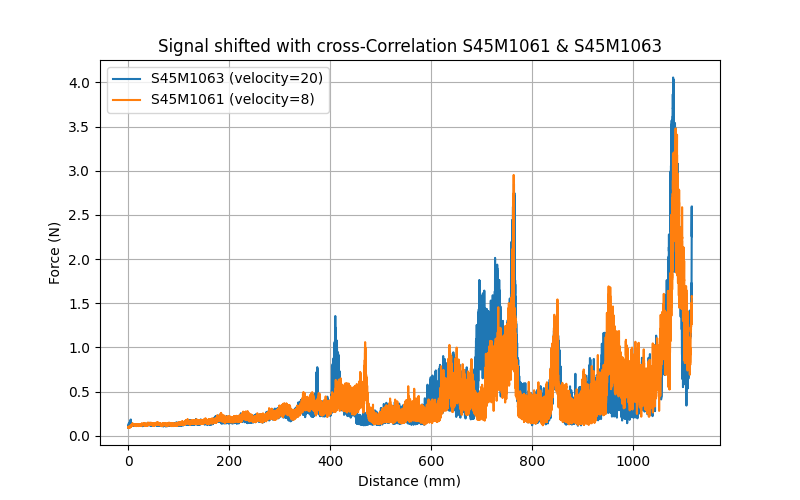
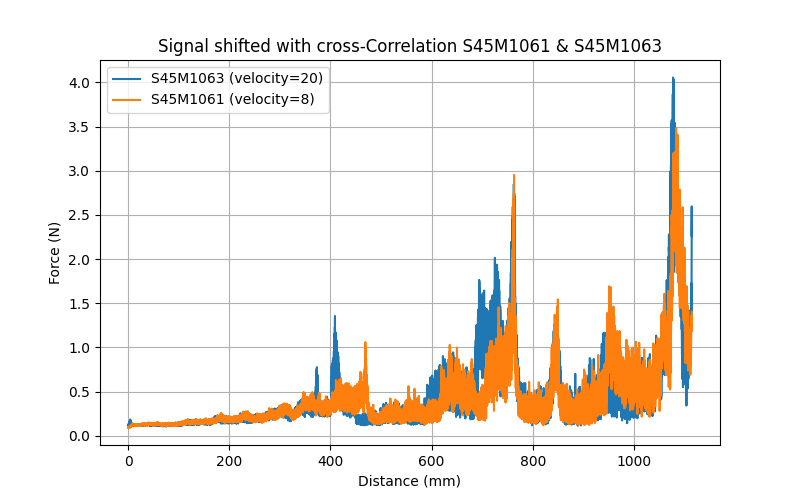
trying to get better alignment values back

diff --git a/code_SMP/similarity.py b/code_SMP/similarity.py
@@ -130,7 +130,7 @@ if __name__ == "__main__":
     smp_profiles = load_all_smp_profiles()
 
     # pairs of profiles saved as lists in code_SMP/pairs.py
-    for type in ["pairs", "first", "single", "double", "increasing", "decreasing"]:
+    for type in ["double"]:#["pairs", "first", "single", "double", "increasing", "decreasing"]:
 
         # build pairs for crosscorrelation 
         if type == "pairs":
@@ -154,15 +154,15 @@ if __name__ == "__main__":
             # Step 1: crosscorrelate pairs
             #check if crosscorr is already in cache 
             pair_key = tuple(sorted((name1, name2)))
-            if pair_key in cache:
-                lag = cache[pair_key]["lag"]
+            #if pair_key in cache:
+            #    lag = cache[pair_key]["lag"]
             # if not: crosscorrelate 
-            else:
-                offset_mm, _, lag = get_offset(df1, df2, name1, name2, plot=False)
-                # save offset in cache
-                cache[pair_key] = {"lag": lag}
-                with open(cache_path, "wb") as f:
-                    pickle.dump(cache, f)
+            #else:
+            offset_mm, _, lag = get_offset(df1, df2, name1, name2, plot=False)
+            # save offset in cache
+            cache[pair_key] = {"lag": lag}
+            with open(cache_path, "wb") as f:
+                pickle.dump(cache, f)
 
             # Step 2: Align profiles
             df1, df2 = align_profiles(df1, df2, name1, name2, lag)

diff --git a/code_SMP/offset.py b/code_SMP/offset.py
@@ -16,12 +16,12 @@ def get_offset(df1, df2, name1, name2, plot=True):
     df2 = df2.reset_index(drop=True)
 
     #Cut dfs to apply autocorrelation - only use for offset method!
-    start = 10000 # *0,004132 = 41,32mm // with surface trim I could also start with 0 
+    start = 0 #10000 *0,004132 = 41,32mm // with surface trim I could also start with 0 
     end = 220000 #909,94mm // only works for day 1 , profiles of day 2 are shorter
 
     #make shorter Array for day 2 (so ground peaks get cut off)
     if len(df2) < 250000: 
-        start = 10000
+        start = 0 #10000
         end = 170000 # = 702,44mm 
 
     #check if array is long enough, if not: take a smaller range
